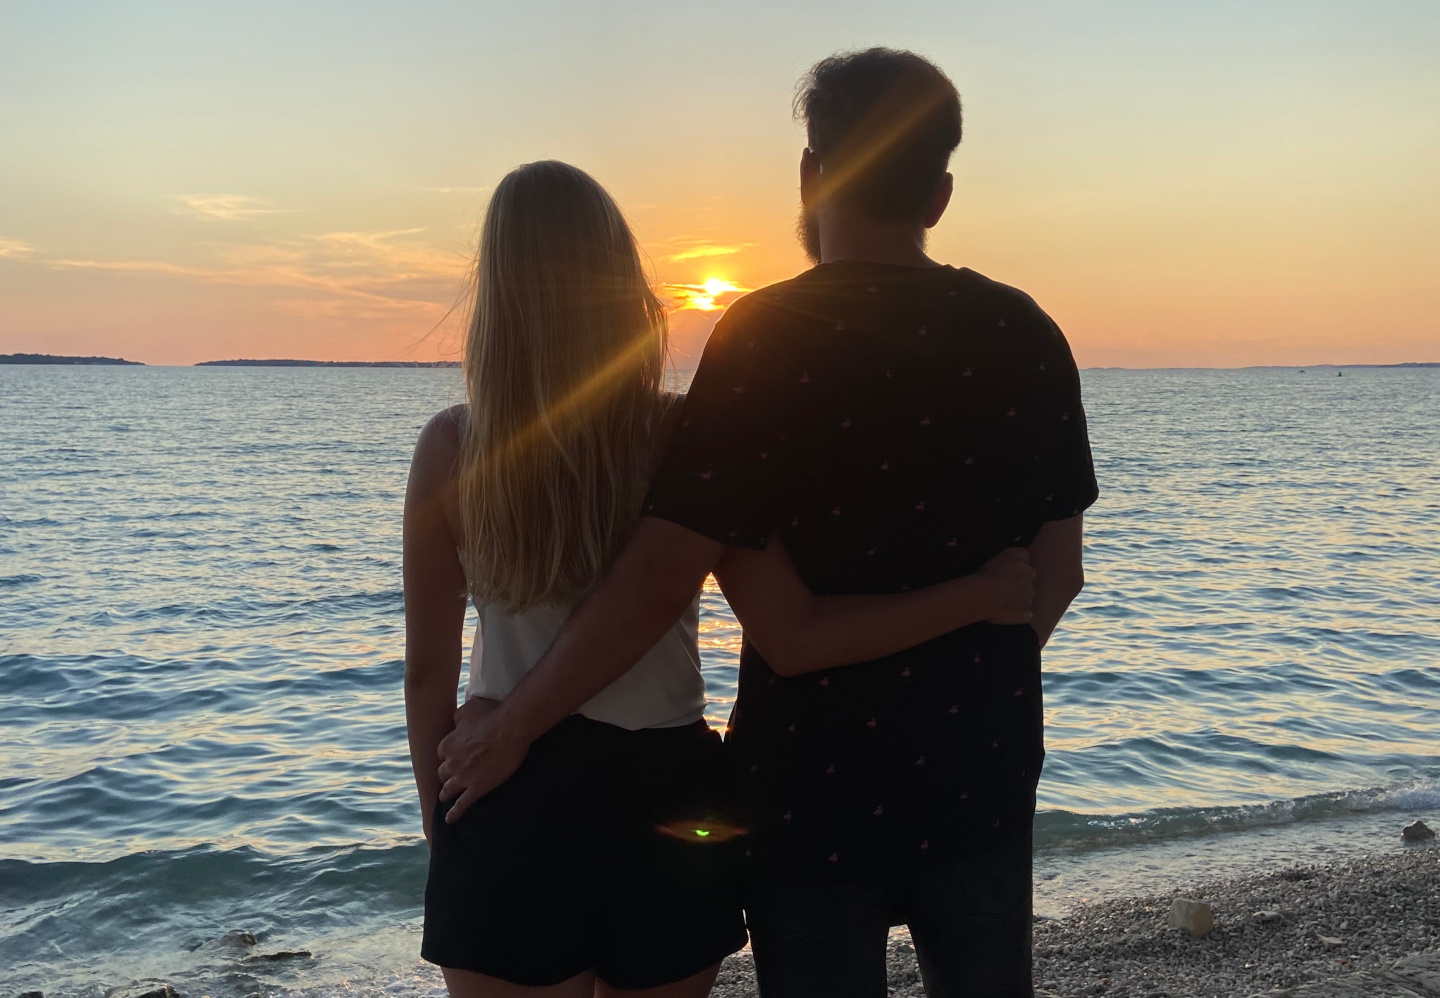
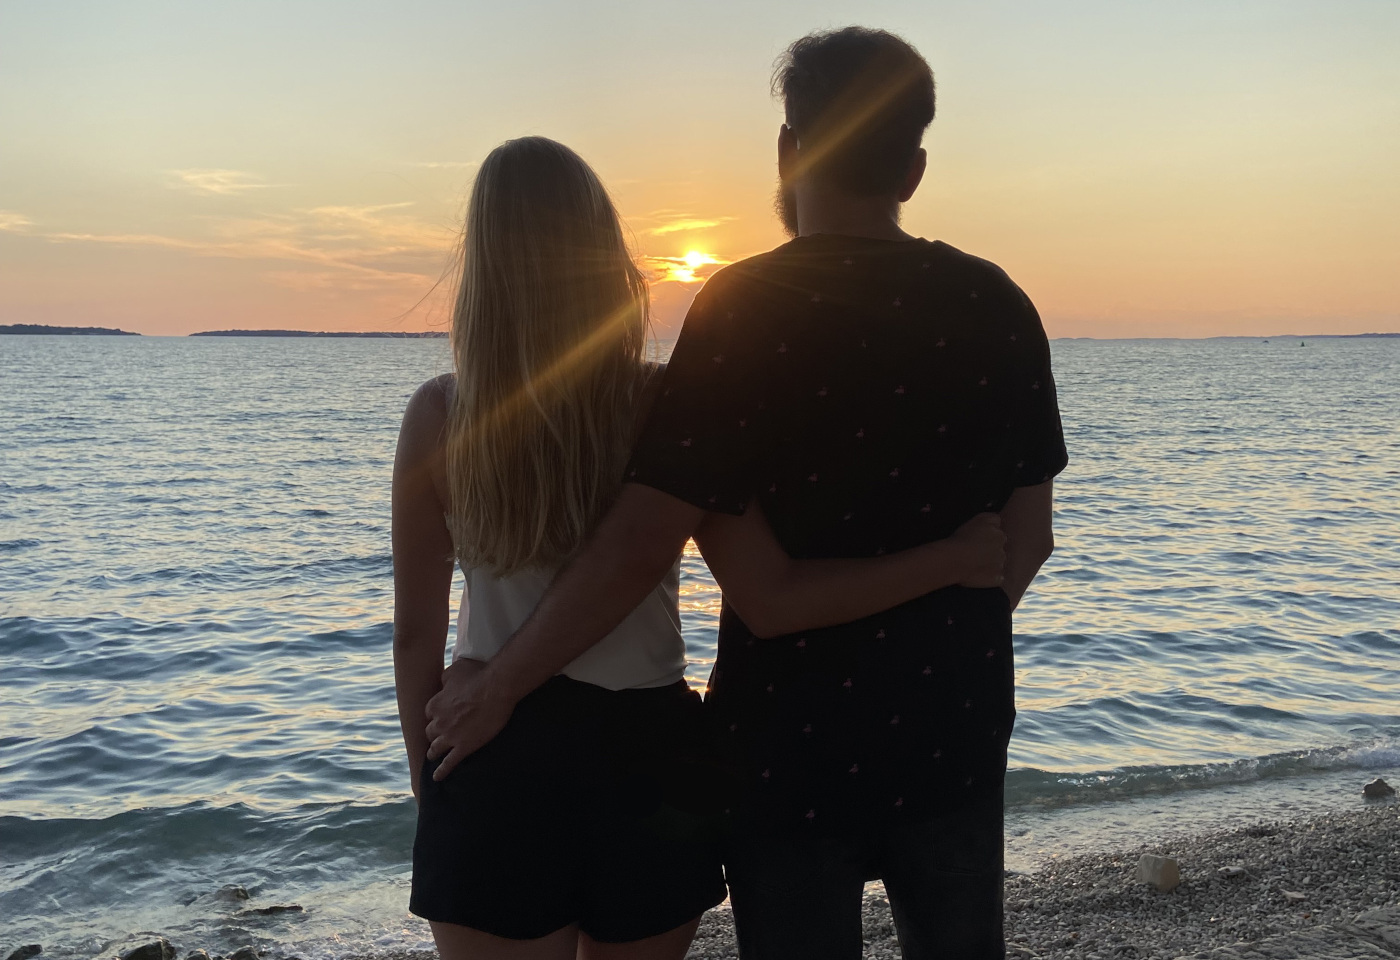
images replaced

diff --git a/src/components/couple.js b/src/components/couple.js
@@ -1,22 +1,29 @@
-import React, { useRef } from 'react'
+import React, { useEffect, useRef, useState } from 'react'
 import { useIsVisible } from 'react-is-visible'
 
 export default function Couple () {
+  const [ shown, setShown ] = useState(false);
   const nodeRef = useRef()
   const isVisible = useIsVisible(nodeRef)
+
+  useEffect(() => {
+    if(isVisible) {
+      setShown(true)
+    }
+  }, [isVisible]);
 
     return (
       <div id="fh5co-couple" className="fh5co-section-gray">
         <div className="container">
           <div className="row row-bottom-padded-md animate-box">
               <div className="col-md-8 col-md-offset-2 text-center">
-                <div ref={nodeRef} className={`col-md-5 col-sm-5 col-xs-5 nopadding${isVisible ? ' fade-in' : ''}`}>
+                <div ref={nodeRef} className={`col-md-5 col-sm-5 col-xs-5 nopadding${shown ? ' fade-in' : ''}`}>
                   <img src="images/luba.jpg" className="img-responsive" alt="Bc. Josef Jadrný"/>
                   <h3><strong>Luboš Cidlinský</strong></h3>
                 </div>
                 <div className="col-md-2 col-sm-2 col-xs-2 nopadding"><h2 className="amp-center"><i className="icon-heart"></i></h2></div>
-                <div className={`col-md-5 col-sm-5 col-xs-5 nopadding${isVisible ? ' fade-in' : ''}`}>
-                  <img src="images/barunka.jpg" className="img-responsive" alt="Ing. Barbora Krchová"/>
+                <div className={`col-md-5 col-sm-5 col-xs-5 nopadding${shown ? ' fade-in' : ''}`}>
+                  <img src="images/stepanka.jpg" className="img-responsive" alt="Ing. Barbora Krchová"/>
                   <h3><strong>Štěpánka Krchová</strong></h3>
                 </div>
               </div>

diff --git a/src/components/header.js b/src/components/header.js
@@ -11,7 +11,7 @@ export default function Header () {
               <div className="container">
                 <div className="col-md-10 col-md-offset-1">
                     <div className="animate-box">
-                      <h1>Svatba</h1>
+                      <h1>Bereme se</h1>
                       <h2>Luboš &amp; Štěpánka</h2>
                       <p><span>18.5.2024</span></p>
                     </div>

diff --git a/src/css/style.css b/src/css/style.css
@@ -1227,7 +1227,7 @@ figure {
 }
 
 .row-bottom-padded-md {
-  padding-bottom: 4em;
+  padding-bottom: 3em;
 }
 
 @media screen and (max-width: 768px) {
